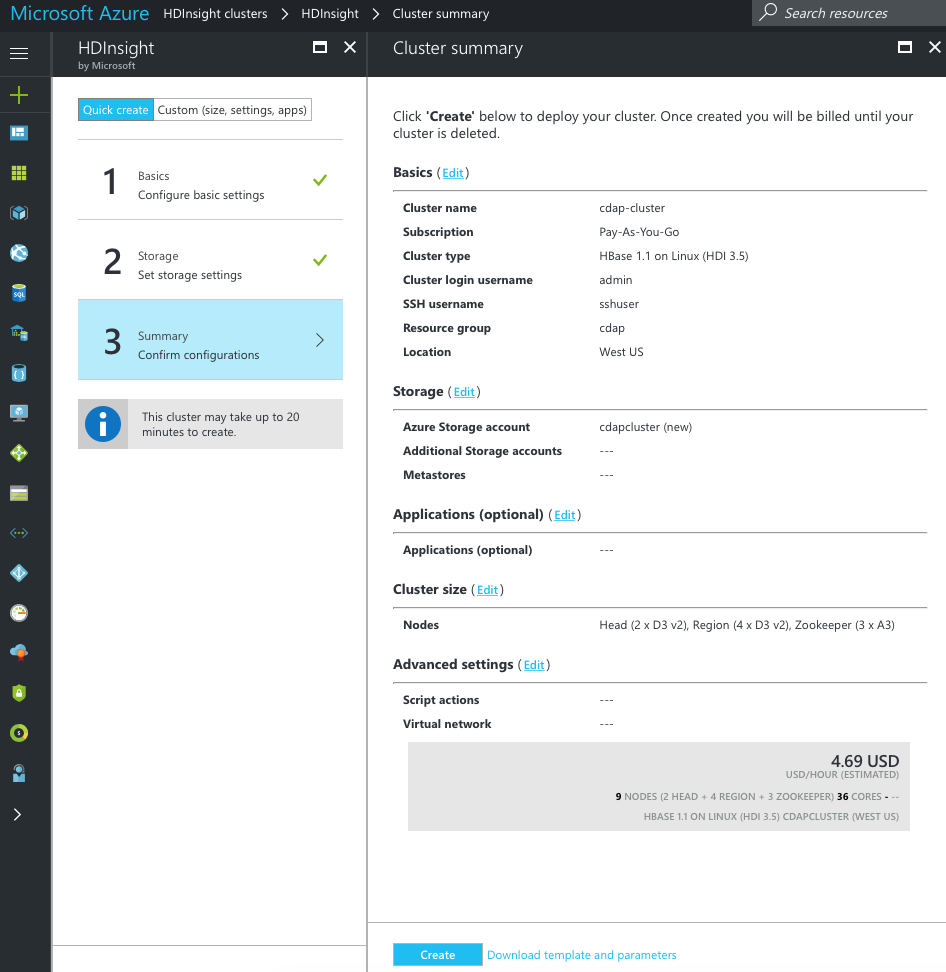
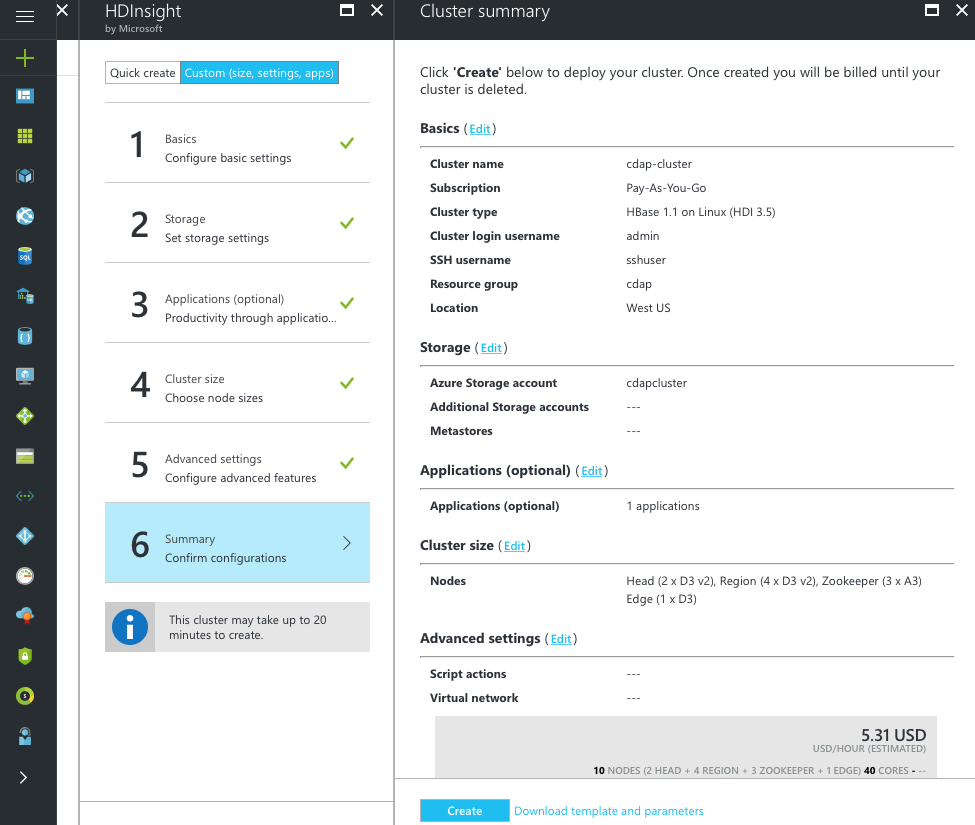
Updating text and images, and automatic versioning of the HDInsight compatibility.

diff --git a/cdap-docs/admin-manual/source/conf.py b/cdap-docs/admin-manual/source/conf.py
@@ -1,15 +1,16 @@
 # -*- coding: utf-8 -*-
 
+import json
 import os
 import sys
 
 # Import the common config file
-# Note that paths in the common config are interpreted as if they were 
+# Note that paths in the common config are interpreted as if they were
 # in the location of this file
 
 # Setup the config
 sys.path.insert(0, os.path.abspath('../../_common'))
-from common_conf import * 
+from common_conf import *
 
 html_short_title_toc, html_short_title, html_context = set_conf_for_manual()
 
@@ -83,3 +84,30 @@ logging_pipeline_configuration_2 = [
     "log.process.pipeline.lib.dir",
     ]
 build_property_tables(defaults_dict, exclusions, dcd.RST_TABLE_HEADER, "logging-pipeline-configuration-2.rst", logging_pipeline_configuration_2)
+
+# Add Microsoft Azure HDInsight versions for this branch
+hdinsight_versions = ''
+hdinsight_path = os.path.join(os.getcwd(), '../../..', 'cdap-distributions/src/hdinsight/pkg/createUiDefinition.json')
+try:
+    with open(hdinsight_path) as json_data:
+        d = json.load(json_data)
+        v_list = d['clusterFilters']['versions']
+        if not v_list:
+            raise
+        if len(v_list) == 1:
+            hdinsight_versions = v_list[0]
+        elif len(v_list) == 2:
+            hdinsight_versions = "%s and %s" % (v_list[0], v_list[1])
+        else:
+            for v in v_list[:-1]:
+                hdinsight_versions += "%s, " % v
+            hdinsight_versions += "and %s" % v_list[-1]
+except:
+    raise Exception(html_short_title_toc, "hdinsight_versions can't be found at %s" % hdinsight_path)
+
+if hdinsight_versions:
+    rst_epilog += """
+.. |hdinsight-versions| replace:: %s
+
+""" % hdinsight_versions
+

diff --git a/cdap-docs/admin-manual/source/installation/azure-hdinsight.rst b/cdap-docs/admin-manual/source/installation/azure-hdinsight.rst
@@ -17,20 +17,22 @@ This section describes installing CDAP on `Microsoft Azure HDInsight
 <https://azure.microsoft.com/en-us/services/hdinsight/>`__ using
 Microsoft's website to:
 
-- Create an HBase cluster;
+- Create an HDInsight HBase cluster;
 - Install CDAP as an application on the cluster; and then
 - Verify that CDAP is installed and running by using the CDAP UI.
 
 Information on Microsoft Azure HDInsight is `available online
 <https://docs.microsoft.com/en-us/azure/hdinsight/>`__.
 
-CDAP |short-version| is compatible with Microsoft Azure HDInsight.
+CDAP |short-version| is compatible with Microsoft Azure HDInsight |hdinsight-versions|.
 
 
 Creating the Cluster
 ====================
 
-1. Log onto Microsoft Azure and navigate to *HDInsight clusters* (under *Intelligence + analytics*):
+1. Log onto Microsoft Azure and navigate to *HDInsight clusters* (either through the *New*
+   menu and under *Intelligence + analytics*, or directly through the *HDInsight clusters*
+   icon in the left sidebar):
 
    .. figure:: ../_images/azure-hdinsight/azure-hdinsight-1.png
       :figwidth: 100%
@@ -39,29 +41,82 @@ Creating the Cluster
 
       **Microsoft Azure:** Finding HDInsight
 
-#. Create an *HDInsight cluster* by clicking "Create". Enter a *Cluster name* (such as
-   *cdap-cluster*). Under *Cluster type*, select "HBase". (To continue, click *Select* to
-   close the *Cluster configuration* window):
+#. Create an *HDInsight cluster* by clicking the "Create" button. *Quick create* will create a
+   cluster, but without CDAP installed. We recommend instead using the *Custom (size,
+   settings, apps)* tab to access additional options and add installing CDAP as part of
+   the cluster creation.
 
-   .. figure:: ../_images/azure-hdinsight/azure-hdinsight-2.png
+   .. figure:: ../_images/azure-hdinsight/azure-hdinsight-2.0.png
       :figwidth: 100%
       :width: 800px
       :class: bordered-image
 
-      **Microsoft Azure HDInsight:** Creating a cluster
+      **Microsoft Azure HDInsight:** Creating a cluster using *Quick create*
 
-#. Enter the required basic settings: *Cluster login password*, *Resource group*, and *Location*:
+   Using the *Custom (size, settings, apps)* tab, enter a *Cluster name* (such as
+   *cdap-cluster*). Under *Cluster type*, select "HBase". (To continue, click *Select* to
+   close the *Cluster configuration* window):
 
-   .. figure:: ../_images/azure-hdinsight/azure-hdinsight-3.png
+   .. figure:: ../_images/azure-hdinsight/azure-hdinsight-2.1.png
+      :figwidth: 100%
+      :width: 800px
+      :class: bordered-image
+
+      **Microsoft Azure HDInsight:** Creating a cluster using *Custom (size, settings, apps)* settings
+
+#. Enter the required basic settings: *Cluster login password*, *Resource group*, and *Location*.
+   As a minimum, a cluster requires 4 D3 v2 region nodes. This is enough YARN capacity to
+   run only simple examples. For any serious work, you will need a cluster with larger
+   nodes:
+
+   .. figure:: ../_images/azure-hdinsight/azure-hdinsight-3.0.png
       :figwidth: 100%
       :width: 674px
       :class: bordered-image
 
       **Microsoft Azure HDInsight:** Configuring basic settings
 
-#. Under *Storage*, set a storage account, either an existing account or enter a unique name for a new account.
+#. Under *Storage*, set a storage account, either an existing account or enter a unique
+   name for a new account.
 
-#. Click *Next* to review the summary.  Then click *Create* to start cluster initialization:
+   .. figure:: ../_images/azure-hdinsight/azure-hdinsight-3.1.png
+      :figwidth: 100%
+      :width: 676px
+      :class: bordered-image
+
+      **Microsoft Azure HDInsight:** Setting a storage account
+
+#. Under *Applications*, search for *CDAP* and select the version you'd like to install
+   and accept the legal terms:
+
+   .. figure:: ../_images/azure-hdinsight/azure-hdinsight-3.2.png
+      :figwidth: 100%
+      :width: 800px
+      :class: bordered-image
+
+      **Microsoft Azure HDInsight:** Setting CDAP as an application on the cluster
+
+#. Under *Cluster size*, at a minimum, a cluster requires four *D3 v2* region nodes. This is
+   enough YARN capacity to run only simple examples. For any serious work, you will need a
+   cluster with larger nodes:
+
+   .. figure:: ../_images/azure-hdinsight/azure-hdinsight-3.3.png
+      :figwidth: 100%
+      :width: 800px
+      :class: bordered-image
+
+      **Microsoft Azure HDInsight:** Setting cluster size
+
+#. Under *Advanced settings*, there are currently no settings to be made:
+
+   .. figure:: ../_images/azure-hdinsight/azure-hdinsight-3.4.png
+      :figwidth: 100%
+      :width: 710px
+      :class: bordered-image
+
+      **Microsoft Azure HDInsight:** *Advanced settings* are currently not used
+
+#. Click *Next* to review the summary. Then click *Create* to start cluster initialization:
 
    .. figure:: ../_images/azure-hdinsight/azure-hdinsight-4.png
       :figwidth: 100%
@@ -70,19 +125,42 @@ Creating the Cluster
 
       **Microsoft Azure HDInsight:** Summary and confirming configuration
 
-#. Once the cluster is ready, its icon will show on the portal dashboard:
+#. Once the cluster is ready |---| it may take a few minutes while the YARN containers
+   come up |---| its icon will show on the portal dashboard:
 
-   .. figure:: ../_images/azure-hdinsight/azure-hdinsight-5.png
+   .. figure:: ../_images/azure-hdinsight/azure-hdinsight-5.0.png
       :figwidth: 100%
       :width: 176px
       :class: bordered-image
 
       **Microsoft Azure HDInsight:** Cluster is created and running
 
+#. Open the created cluster. Click the *Applications* button to see the installed applications:
 
-Install CDAP as an Application
-==============================
-#. Open the created HBase Cluster. Click the *Applications* button:
+   .. figure:: ../_images/azure-hdinsight/azure-hdinsight-5.1.png
+      :figwidth: 100%
+      :width: 800px
+      :class: bordered-image
+
+      **Microsoft Azure HDInsight:** The cluster dashboard, *Applications* button circled
+
+#. CDAP should show as installed successfully:
+
+   .. figure:: ../_images/azure-hdinsight/azure-hdinsight-5.2.png
+      :figwidth: 100%
+      :width: 800px
+      :class: bordered-image
+
+      **Microsoft Azure HDInsight:** Installed applications, showing CDAP and its *Portal* button
+
+
+Install CDAP as an Application on an Existing Cluster
+=====================================================
+You can add CDAP to an existing cluster. (If you added CDAP in the previous steps for
+creating a cluster, you can jump to :ref:`verification
+<admin-installation-azure-hdinsight-verification>`.)
+
+1. Open the created HBase Cluster. Click the *Applications* button:
 
    .. figure:: ../_images/azure-hdinsight/azure-hdinsight-6.png
       :figwidth: 100%
@@ -91,9 +169,9 @@ Install CDAP as an Application
 
       **Microsoft Azure HDInsight:** The cluster dashboard
 
-#. In the open window, click *+ Add* to show the *Available applications*.  Choose the CDAP
-   version you'd like to install and accept the legal terms. Once confirmed in the following step,
-   installation of CDAP starts:
+#. In the open window, click *+ Add* to show the *Available applications*. Choose the CDAP
+   version you'd like to install and accept the legal terms. Once confirmed in the
+   following step, installation of CDAP starts:
 
    .. figure:: ../_images/azure-hdinsight/azure-hdinsight-7.png
       :figwidth: 100%
@@ -111,7 +189,7 @@ Install CDAP as an Application
 
       **Microsoft Azure HDInsight:** CDAP accepted as an application
 
-#. Once CDAP is installed successfully,  its status shows as *Installed*:
+#. Once CDAP is installed successfully, its status shows as *Installed*:
 
    .. figure:: ../_images/azure-hdinsight/azure-hdinsight-9.png
       :figwidth: 100%
@@ -120,6 +198,8 @@ Install CDAP as an Application
 
       **Microsoft Azure HDInsight:** CDAP installed as an application
 
+
+.. _admin-installation-azure-hdinsight-verification:
 
 Verification
 ============
